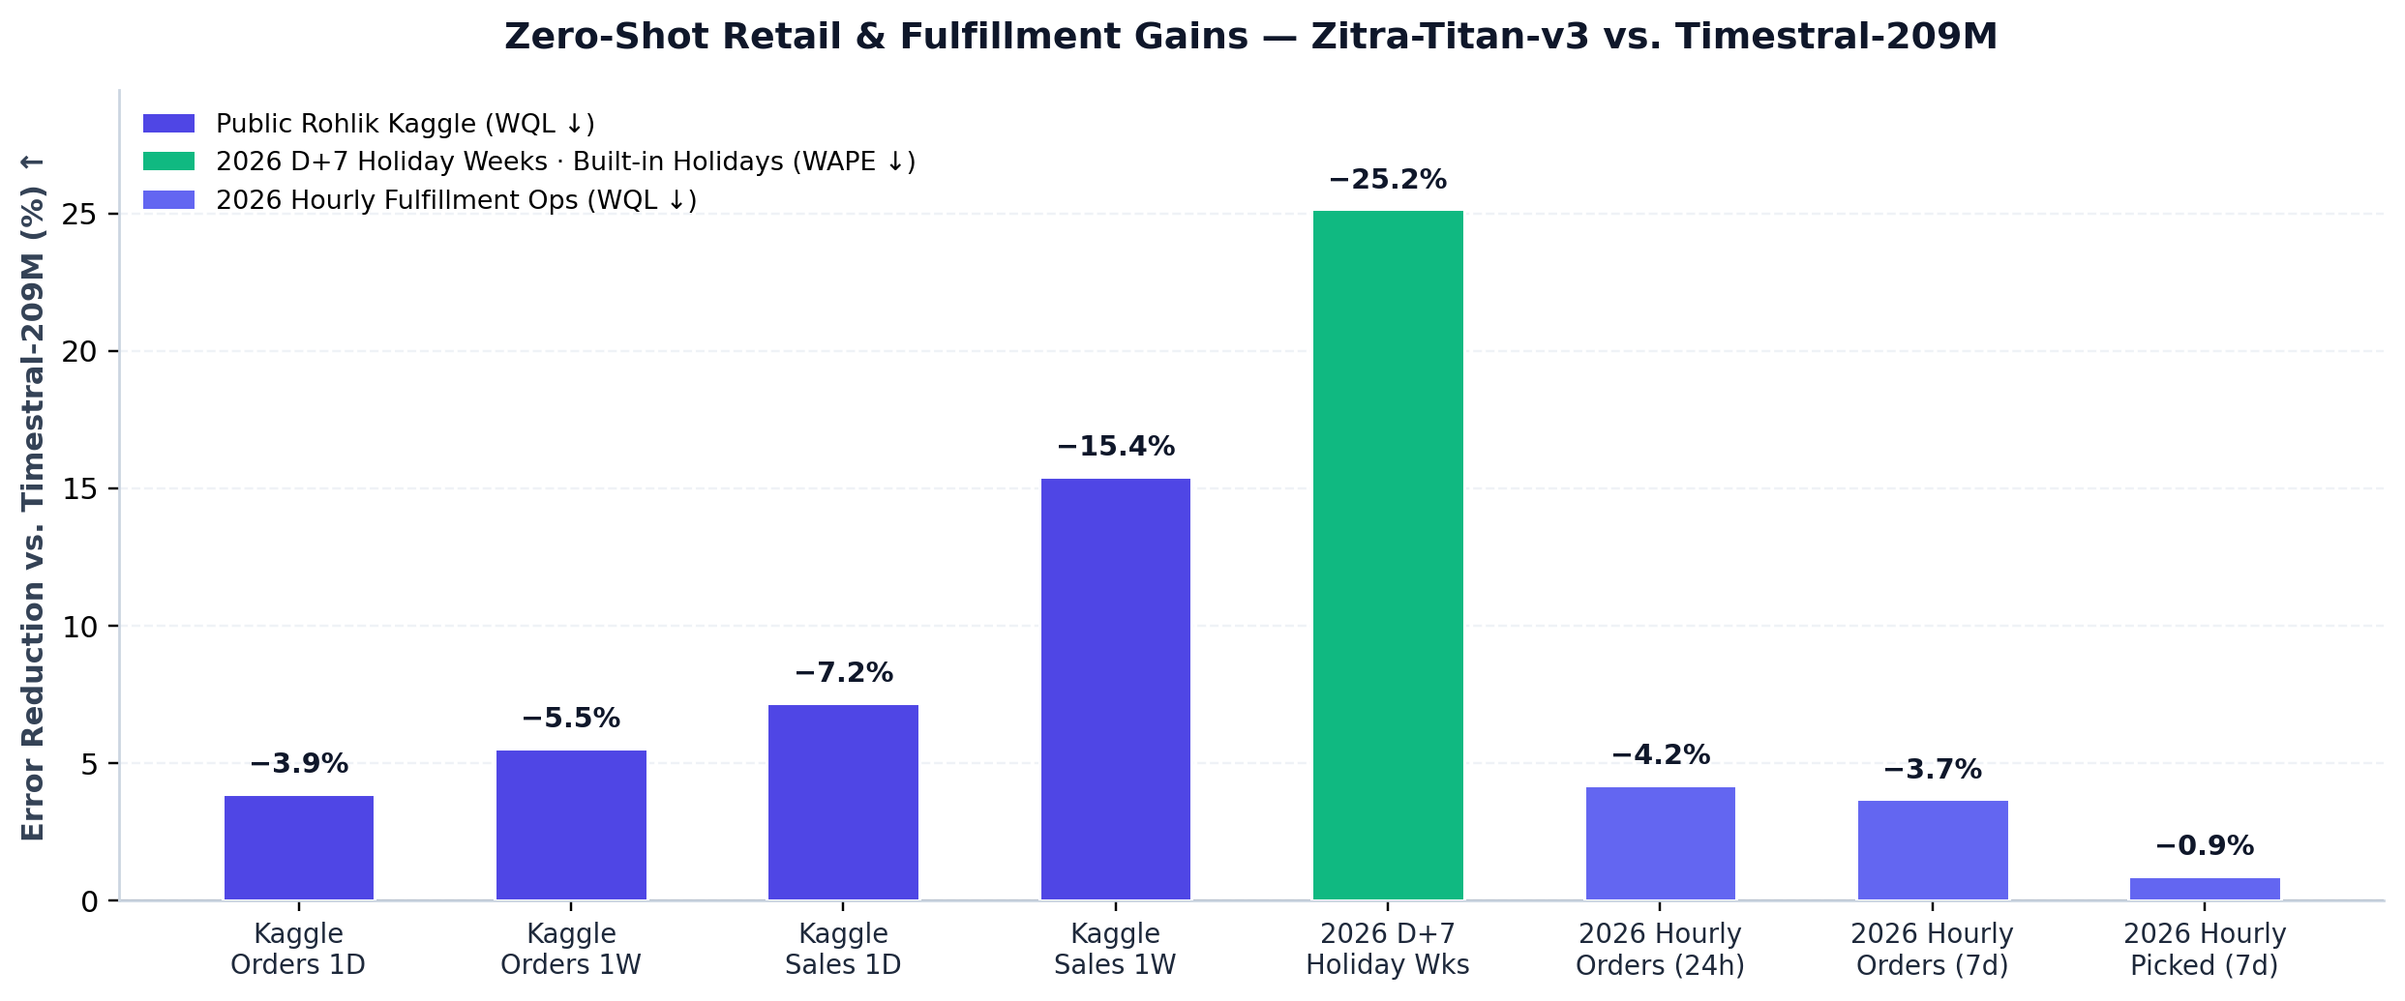
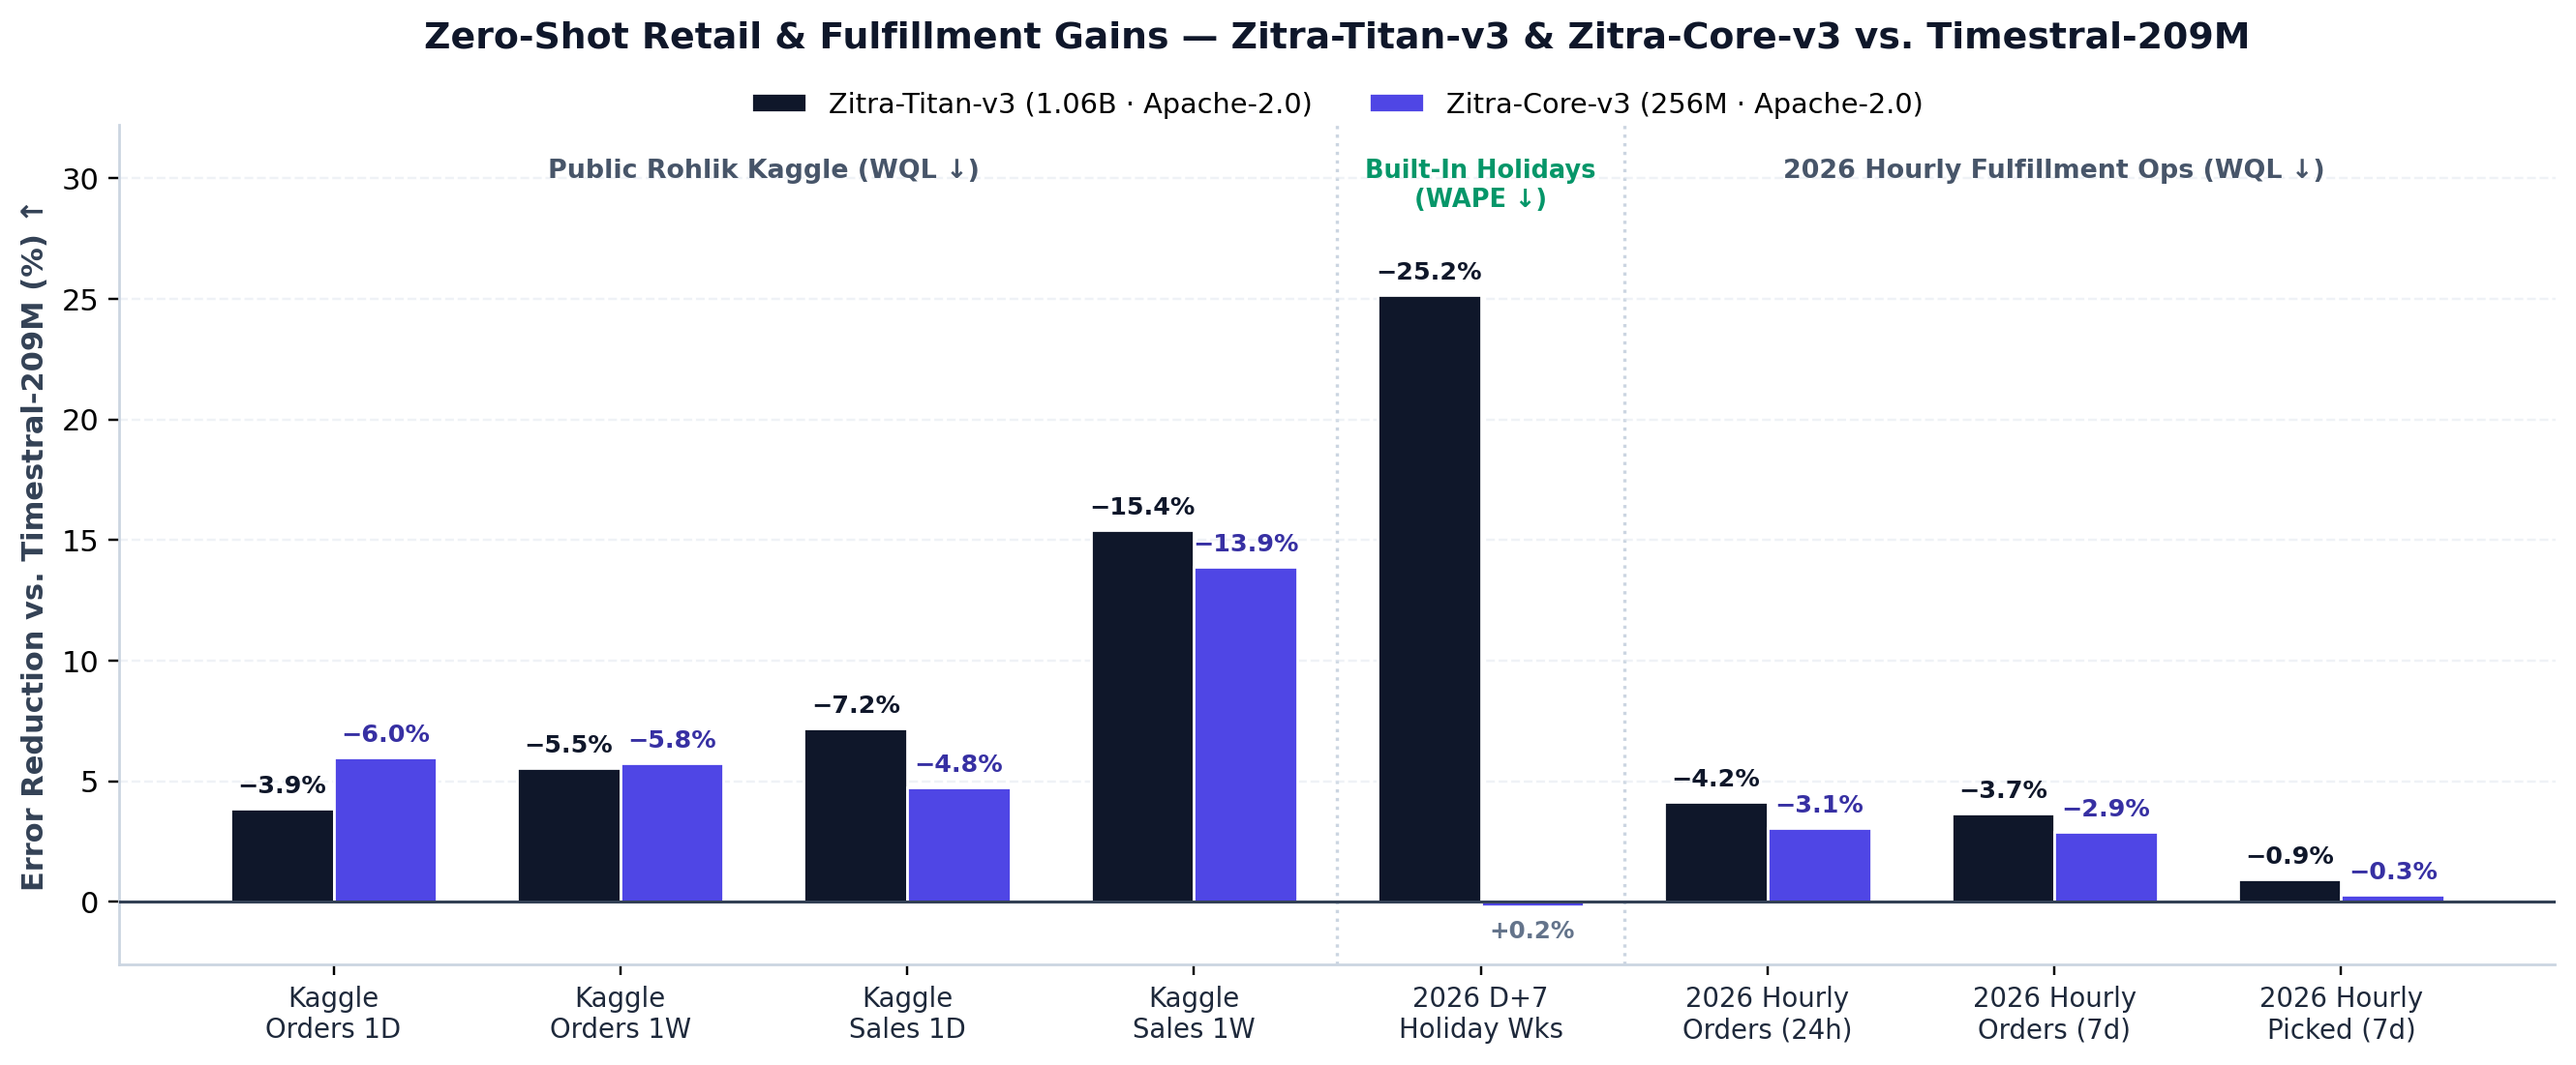
Add side-by-side Zitra-Core-v3 bars to Rohlik benchmark chart and surface on Core card

diff --git a/assets/generate_charts.py b/assets/generate_charts.py
@@ -280,7 +280,7 @@ def make_core_benchmarks_chart():
 
 
 def make_rohlik_chart():
-    fig, ax = plt.subplots(figsize=(11.4, 4.8), dpi=220)
+    fig, ax = plt.subplots(figsize=(12.2, 5.1), dpi=220)
     fig.patch.set_facecolor("white")
     _style_ax(ax)
     ax.grid(axis="x", visible=False)
@@ -296,43 +296,43 @@ def make_rohlik_chart():
         "2026 Hourly\nOrders (7d)",
         "2026 Hourly\nPicked (7d)",
     ]
-    vals = [3.88, 5.54, 7.20, 15.42, 25.16, 4.21, 3.70, 0.89]
-    colors = ["#4f46e5", "#4f46e5", "#4f46e5", "#4f46e5", "#10b981", "#6366f1", "#6366f1", "#6366f1"]
+    # Exact verified % error reduction vs. Timestral-209M (positive = lower error than Timestral-209M)
+    titan_vals = [3.88, 5.54, 7.20, 15.42, 25.16, 4.16, 3.66, 0.94]
+    core_vals  = [5.98, 5.75, 4.75, 13.90, -0.19, 3.08, 2.90, 0.28]
 
     x = np.arange(len(categories))
-    bars = ax.bar(x, vals, width=0.56, color=colors, edgecolor="white", linewidth=1.0, zorder=3)
-    ax.axhline(0, color="#334155", linewidth=1.0, zorder=2)
+    w = 0.36
+    bars_t = ax.bar(x - w / 2, titan_vals, width=w, color="#0f172a", edgecolor="white", linewidth=0.9, label="Zitra-Titan-v3 (1.06B · Apache-2.0)", zorder=3)
+    bars_c = ax.bar(x + w / 2, core_vals,  width=w, color="#4f46e5", edgecolor="white", linewidth=0.9, label="Zitra-Core-v3 (256M · Apache-2.0)", zorder=3)
+    ax.axhline(0, color="#334155", linewidth=1.0, zorder=4)
 
-    for bar, v in zip(bars, vals):
-        ax.text(
-            bar.get_x() + bar.get_width() / 2,
-            v + 0.55,
-            f"−{v:.1f}%",
-            ha="center",
-            va="bottom",
-            fontsize=9.4,
-            fontweight="bold",
-            color="#0f172a",
-        )
+    # Subtle vertical dividers & suite headers
+    for xv in (3.5, 4.5):
+        ax.axvline(xv, color="#cbd5e1", linestyle=":", linewidth=1.1, zorder=1)
+    ax.text(1.5, 30.8, "Public Rohlik Kaggle (WQL ↓)", ha="center", va="top", fontsize=8.8, fontweight="bold", color="#475569")
+    ax.text(4.0, 30.8, "Built-In Holidays\n(WAPE ↓)", ha="center", va="top", fontsize=8.4, fontweight="bold", color="#059669")
+    ax.text(6.0, 30.8, "2026 Hourly Fulfillment Ops (WQL ↓)", ha="center", va="top", fontsize=8.8, fontweight="bold", color="#475569")
+
+    for bars, vals, col in [(bars_t, titan_vals, "#0f172a"), (bars_c, core_vals, "#3730a3")]:
+        for bar, v in zip(bars, vals):
+            cx = bar.get_x() + bar.get_width() / 2
+            if v >= 0:
+                ax.text(cx, v + 0.45, f"−{v:.1f}%", ha="center", va="bottom", fontsize=8.3, fontweight="bold", color=col)
+            else:
+                ax.text(cx, v - 0.55, f"+{abs(v):.1f}%", ha="center", va="top", fontsize=8.0, fontweight="bold", color="#64748b")
 
     ax.set_xticks(x)
     ax.set_xticklabels(categories, fontsize=9.0, color="#1e293b")
     ax.set_ylabel("Error Reduction vs. Timestral-209M (%) ↑", fontsize=10, fontweight="bold", color="#334155")
     ax.set_title(
-        "Zero-Shot Retail & Fulfillment Gains — Zitra-Titan-v3 vs. Timestral-209M",
+        "Zero-Shot Retail & Fulfillment Gains — Zitra-Titan-v3 & Zitra-Core-v3 vs. Timestral-209M",
         fontsize=12.4,
         fontweight="bold",
         color="#0f172a",
-        pad=14,
+        pad=26,
     )
-    ax.set_ylim(0, 29.5)
-
-    legend_handles = [
-        Patch(facecolor="#4f46e5", label="Public Rohlik Kaggle (WQL ↓)"),
-        Patch(facecolor="#10b981", label="2026 D+7 Holiday Weeks · Built-in Holidays (WAPE ↓)"),
-        Patch(facecolor="#6366f1", label="2026 Hourly Fulfillment Ops (WQL ↓)"),
-    ]
-    ax.legend(handles=legend_handles, frameon=False, loc="upper left", fontsize=8.8)
+    ax.set_ylim(-2.6, 32.2)
+    ax.legend(loc="upper center", bbox_to_anchor=(0.5, 1.07), ncol=2, frameon=False, fontsize=9.4)
     plt.tight_layout()
     p = OUT / "rohlik_benchmark.png"
     fig.savefig(p, bbox_inches="tight")

diff --git a/hf-cards/Zitra-Core-v3/README.md b/hf-cards/Zitra-Core-v3/README.md
@@ -133,14 +133,14 @@ Ranks **#11 / 56 models** across SQL (75.4%), MASE (73.5%), and WQL (73.8%), wit
 
 Outperforms every third-party Apache-2.0 model of any size (including 10× larger `Toto-2.0-2.5B`), beats `Timestral-123M` on both metrics, and beats `Timestral-209M` on MASE (−0.93% MASE / −0.06% CRPS ex-Jena).
 
-<details>
-<summary><b>Real-world enterprise throughput &amp; raw CSVs (Rohlik · Zero-Shot)</b></summary>
+### Real-World Enterprise Proof (Rohlik · Zero-Shot)
 
-- **High-volume SKU &amp; hourly ops (10,859 forecasts):** Forecasts **10,000 daily SKUs in 7.9 s (`1,265 SKUs/sec` on B300)** while staying within **0.5–1.6% WAPE** of `Titan-v3` on SKU and hourly warehouse ops (and beating `Titan-v3` on 28-day SKU MASE `1.260` vs. `1.284` and SQL `1.079` vs. `1.092`).
-- **Public Rohlik Kaggle (`fev-bench` WQL):** Beats `Timestral-209M` across all 4 tasks — Orders 1D (**−6.0%**), Orders 1W (**−5.8%**), Sales 1D (**−4.8%**), Sales 1W (**−13.9%**), edging `Zitra-Titan-v3` on both Orders tasks.
-- **Full benchmark CSVs:** [`gift_eval_results.csv`](gift_eval_results.csv) · [`fev_bench_results.csv`](fev_bench_results.csv).
+![Zero-Shot Rohlik Retail and Fulfillment Benchmarks](https://raw.githubusercontent.com/tomascupr/zitra-forecast/main/assets/rohlik_benchmark.png)
 
-</details>
+- **Public Rohlik Kaggle (`fev-bench`):** Beats `Timestral-209M` across all 4 tasks — Orders 1D/1W (**−6.0% / −5.8%**, ahead of `Zitra-Titan-v3`) and SKU Sales 1D/1W (**−4.8% / −13.9%**).
+- **High-volume SKU & hourly ops (10,859 forecasts):** Forecasts **10,000 daily SKUs in 7.9 s (`1,265 SKUs/s`)** while beating `Timestral-209M` on hourly FC orders (**−3.1% / −2.9%** WQL) and beating both `Timestral-209M` and `Zitra-Titan-v3` on 28-day SKU MASE (`1.260` vs. `1.306` / `1.284`).
+- **Holiday weeks (12 European FCs, 2026 `D+7`):** Built-in `country=` holidays cut `Core-v3` holiday WAPE **14.09% → 10.41%** (matching `Timestral-209M`'s `10.39%`), while [`Zitra-Titan-v3`](https://huggingface.co/tomcupr/Zitra-Titan-v3) drops it further to **7.78%** (**−25.2%**).
+- **Raw benchmark CSVs:** [`gift_eval_results.csv`](gift_eval_results.csv) · [`fev_bench_results.csv`](fev_bench_results.csv).
 
 ---
 
